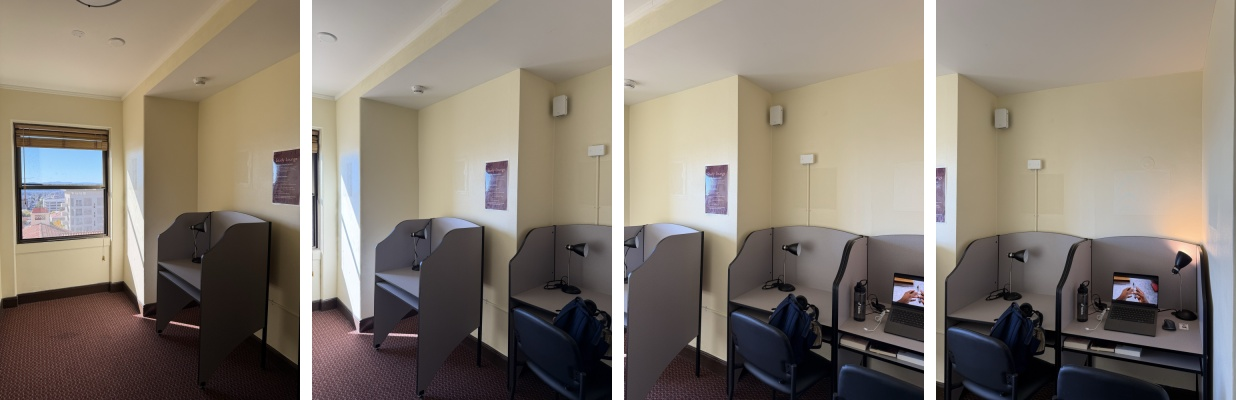
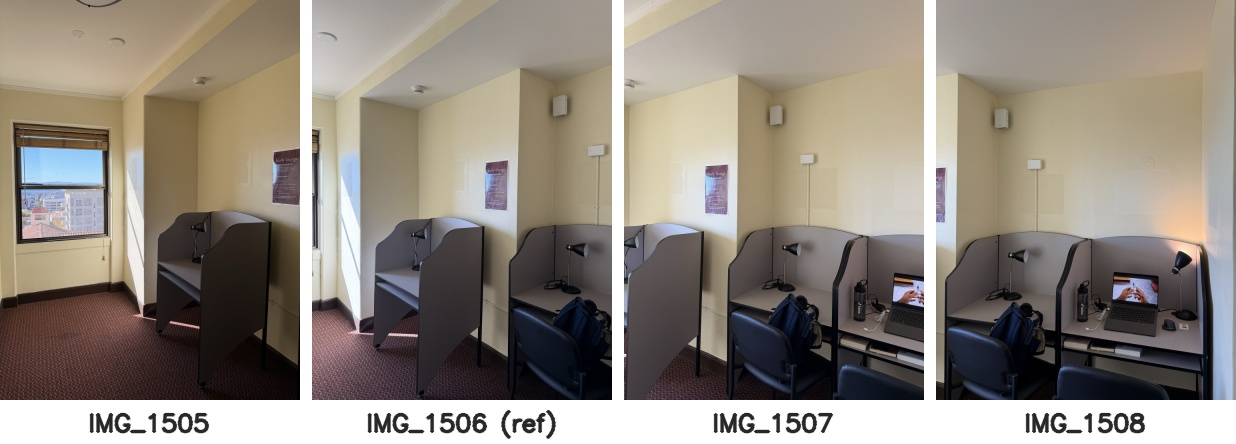
proj4: label source photos, trim rectification text

diff --git a/proj4/index.html b/proj4/index.html
@@ -31,15 +31,15 @@
     Three sets were shot from one spot, turning the camera between frames so neighboring photos differ by a projective transform, with roughly 50 to 60 percent overlap. The lounge and plaza pans have six photos each, but only four of each are used: the outermost photos look at the walls so obliquely that a flat projection stretches them into wedges, and all six lounge photos gave a canvas of 11778&times;8692 pixels.
   </p>
 <figure class="montage">
-      <a href="media/mosaic_lounge_sources.jpg" target="_blank" rel="noopener"><img src="media/mosaic_lounge_sources.jpg" width="1236" height="400" loading="lazy" alt="The four lounge photos used, from left to right"></a>
+      <a href="media/mosaic_lounge_sources.jpg" target="_blank" rel="noopener"><img src="media/mosaic_lounge_sources.jpg" width="1236" height="444" loading="lazy" alt="The four lounge photos used, from left to right"></a>
       <figcaption><b>Figure 1.</b> The study lounge, IMG_1505 to IMG_1508. The window, the poster and the cubicle lamps are shared between neighbors.</figcaption>
     </figure>
 <figure class="montage">
-      <a href="media/mosaic_toy_sources.jpg" target="_blank" rel="noopener"><img src="media/mosaic_toy_sources.jpg" width="1548" height="400" loading="lazy" alt="The five toy store photos, from left to right"></a>
+      <a href="media/mosaic_toy_sources.jpg" target="_blank" rel="noopener"><img src="media/mosaic_toy_sources.jpg" width="1548" height="444" loading="lazy" alt="The five toy store photos, from left to right"></a>
       <figcaption><b>Figure 2.</b> The toy store, IMG_1527 to IMG_1531. Shelves, the giraffe board, the plush cart and the window poster carry the overlaps.</figcaption>
     </figure>
 <figure class="montage">
-      <a href="media/mosaic_plaza_sources.jpg" target="_blank" rel="noopener"><img src="media/mosaic_plaza_sources.jpg" width="1236" height="400" loading="lazy" alt="The four plaza photos used, from left to right"></a>
+      <a href="media/mosaic_plaza_sources.jpg" target="_blank" rel="noopener"><img src="media/mosaic_plaza_sources.jpg" width="1236" height="444" loading="lazy" alt="The four plaza photos used, from left to right"></a>
       <figcaption><b>Figure 3.</b> The plaza at dusk, IMG_1563 to IMG_1566. The path, the distant building and the lamp post carry the overlaps.</figcaption>
     </figure>
 
@@ -164,7 +164,7 @@ def warpImageBilinear(im, H, bbox=None):
     return np.clip(np.round(warped), 0, 255).astype(np.uint8), alpha.astype(float), (bbox[0], bbox[1])</code></pre>
 
   <p class="setup">
-    To test them alone, two planar objects were photographed at an angle and rectified: the four corners of the door and of the window pane were clicked, and <i>H</i> sends them to the corners of an upright rectangle. The rectangle's proportions were chosen to match a door (500&times;1100) and the window (560&times;800), without measuring the real objects. The corners were clicked in different orders for the two photos, so they are sorted into top left, top right, bottom right and bottom left before solving.
+    To test them alone, two planar objects were photographed at an angle and rectified: the four corners of the door and of the window pane were clicked, and <i>H</i> sends them to the corners of an upright rectangle. The rectangle's proportions were chosen to match a door (500&times;1100) and the window (560&times;800), without measuring the real objects.
   </p>
 
   <h3><span class="secno">3.1</span> Door</h3>
@@ -234,8 +234,8 @@ def warpImageBilinear(im, H, bbox=None):
     IMG_1506 is the reference, with IMG_1505 on its left and IMG_1507 and IMG_1508 on its right.
   </p>
 <figure class="montage">
-      <a href="media/mosaic_lounge_sources.jpg" target="_blank" rel="noopener"><img src="media/mosaic_lounge_sources.jpg" width="1236" height="400" loading="lazy" alt="The source photos of the lounge mosaic"></a>
-      <figcaption><b>Figure 15.</b> Source photos of the lounge mosaic.</figcaption>
+      <a href="media/mosaic_lounge_sources.jpg" target="_blank" rel="noopener"><img src="media/mosaic_lounge_sources.jpg" width="1236" height="444" loading="lazy" alt="The source photos of the lounge mosaic"></a>
+      <figcaption><b>Figure 15.</b> Source photos of the lounge mosaic, left to right. The reference photo is marked (ref).</figcaption>
     </figure>
 <figure class="montage">
       <a href="media/mosaic_lounge_laplacian.jpg" target="_blank" rel="noopener"><img src="media/mosaic_lounge_laplacian.jpg" width="2137" height="1884" loading="lazy" alt="The lounge mosaic"></a>
@@ -247,8 +247,8 @@ def warpImageBilinear(im, H, bbox=None):
     IMG_1529 is the reference, with two photos on each side.
   </p>
 <figure class="montage">
-      <a href="media/mosaic_toy_sources.jpg" target="_blank" rel="noopener"><img src="media/mosaic_toy_sources.jpg" width="1548" height="400" loading="lazy" alt="The source photos of the toy store mosaic"></a>
-      <figcaption><b>Figure 17.</b> Source photos of the toy store mosaic.</figcaption>
+      <a href="media/mosaic_toy_sources.jpg" target="_blank" rel="noopener"><img src="media/mosaic_toy_sources.jpg" width="1548" height="444" loading="lazy" alt="The source photos of the toy store mosaic"></a>
+      <figcaption><b>Figure 17.</b> Source photos of the toy store mosaic, left to right. The reference photo is marked (ref).</figcaption>
     </figure>
 <figure class="montage">
       <a href="media/mosaic_toy_laplacian.jpg" target="_blank" rel="noopener"><img src="media/mosaic_toy_laplacian.jpg" width="2068" height="1610" loading="lazy" alt="The toy store mosaic"></a>
@@ -260,8 +260,8 @@ def warpImageBilinear(im, H, bbox=None):
     IMG_1564 is the reference, with IMG_1563 on its left and IMG_1565 and IMG_1566 on its right.
   </p>
 <figure class="montage">
-      <a href="media/mosaic_plaza_sources.jpg" target="_blank" rel="noopener"><img src="media/mosaic_plaza_sources.jpg" width="1236" height="400" loading="lazy" alt="The source photos of the plaza mosaic"></a>
-      <figcaption><b>Figure 19.</b> Source photos of the plaza mosaic.</figcaption>
+      <a href="media/mosaic_plaza_sources.jpg" target="_blank" rel="noopener"><img src="media/mosaic_plaza_sources.jpg" width="1236" height="444" loading="lazy" alt="The source photos of the plaza mosaic"></a>
+      <figcaption><b>Figure 19.</b> Source photos of the plaza mosaic, left to right. The reference photo is marked (ref).</figcaption>
     </figure>
 <figure class="montage">
       <a href="media/mosaic_plaza_laplacian.jpg" target="_blank" rel="noopener"><img src="media/mosaic_plaza_laplacian.jpg" width="2562" height="2189" loading="lazy" alt="The plaza mosaic"></a>

diff --git a/proj4/partA.py b/proj4/partA.py
@@ -69,12 +69,21 @@ def draw_correspondences(im1, im2, pts1, pts2):
             cv2.putText(canvas, str(i + 1), (p[0] + 8, p[1] - 8), cv2.FONT_HERSHEY_SIMPLEX, 0.8, (0, 255, 0), 2, cv2.LINE_AA)
     return canvas
 
-def montage_row(images, height=500, gap=12):
-    # The images in a row, all scaled to the same height, with a white gap between them
+def montage_row(images, height=500, gap=12, labels=None):
+    # The images in a row, all scaled to the same height, with a white gap between them. With labels, every image gets its
+    # label centered in a white strip below it
     resized = [cv2.resize(im, (round(im.shape[1] * height / im.shape[0]), height), interpolation=cv2.INTER_AREA) for im in images]
+    if labels:
+        strip = 44
+        for i, (im, label) in enumerate(zip(resized, labels)):
+            labeled = np.full((height + strip, im.shape[1], 3), 255, dtype=np.uint8)
+            labeled[:height] = im
+            (text_w, _), _ = cv2.getTextSize(label, cv2.FONT_HERSHEY_SIMPLEX, 0.8, 2)
+            cv2.putText(labeled, label, ((im.shape[1] - text_w) // 2, height + 31), cv2.FONT_HERSHEY_SIMPLEX, 0.8, (40, 40, 40), 2, cv2.LINE_AA)
+            resized[i] = labeled
     pieces = []
     for im in resized:
-        pieces += [im, np.full((height, gap, 3), 255, dtype=np.uint8)]
+        pieces += [im, np.full((im.shape[0], gap, 3), 255, dtype=np.uint8)]
     return np.hstack(pieces[:-1])
 
 def run_partA2(path_to_img_folder, path_to_out_folder):
@@ -162,7 +171,7 @@ def run_partA4(path_to_img_folder, path_to_out_folder):
 
         layers = [warpImageBilinear(im, H, bbox) for im, H in zip(imgs, to_ref)]
         images, alphas, _ = place_on_canvas(layers)
-        save_img(os.path.join(path_to_out_folder, f"mosaic_{set_name}_sources.jpg"), montage_row(imgs, 400))
+        save_img(os.path.join(path_to_out_folder, f"mosaic_{set_name}_sources.jpg"), montage_row(imgs, 400, labels=[f"IMG_{n}" + (" (ref)" if k == reference else "") for k, n in enumerate(numbers)]))
         mosaic, t = timed(blend_laplacian, images, alphas)
         print(f"{set_name}: blend {t:.1f}s")
         save_img(os.path.join(path_to_out_folder, f"mosaic_{set_name}_laplacian.jpg"), mosaic)
